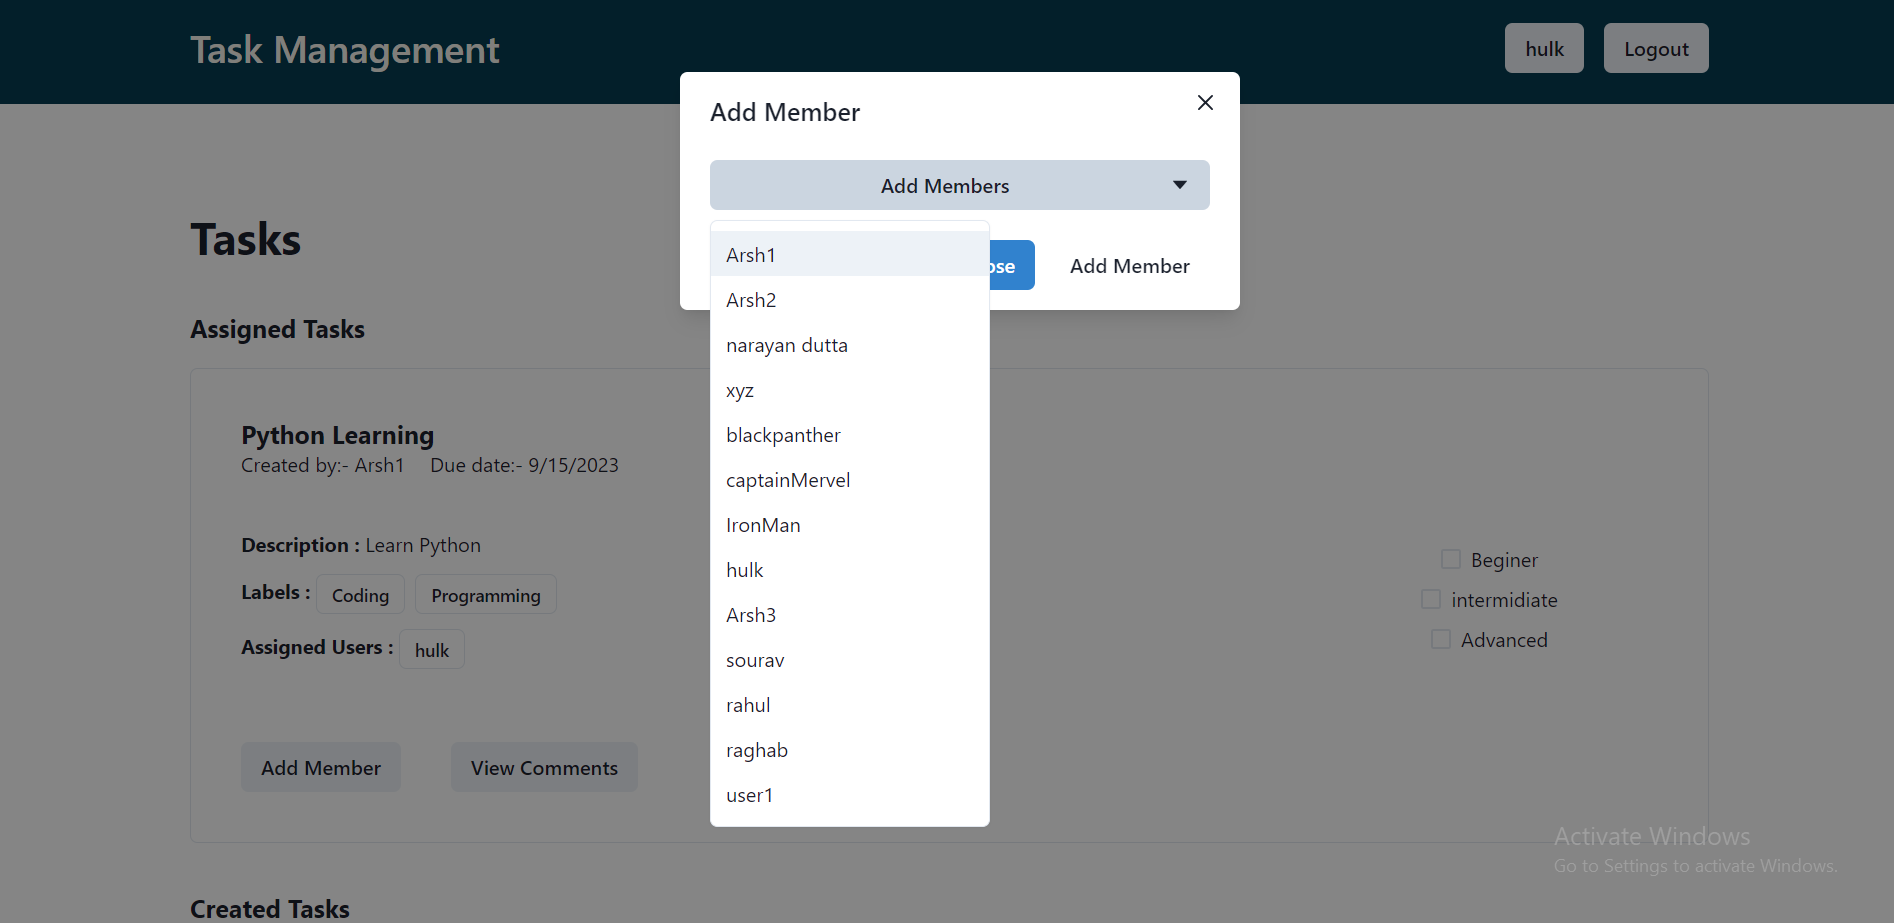
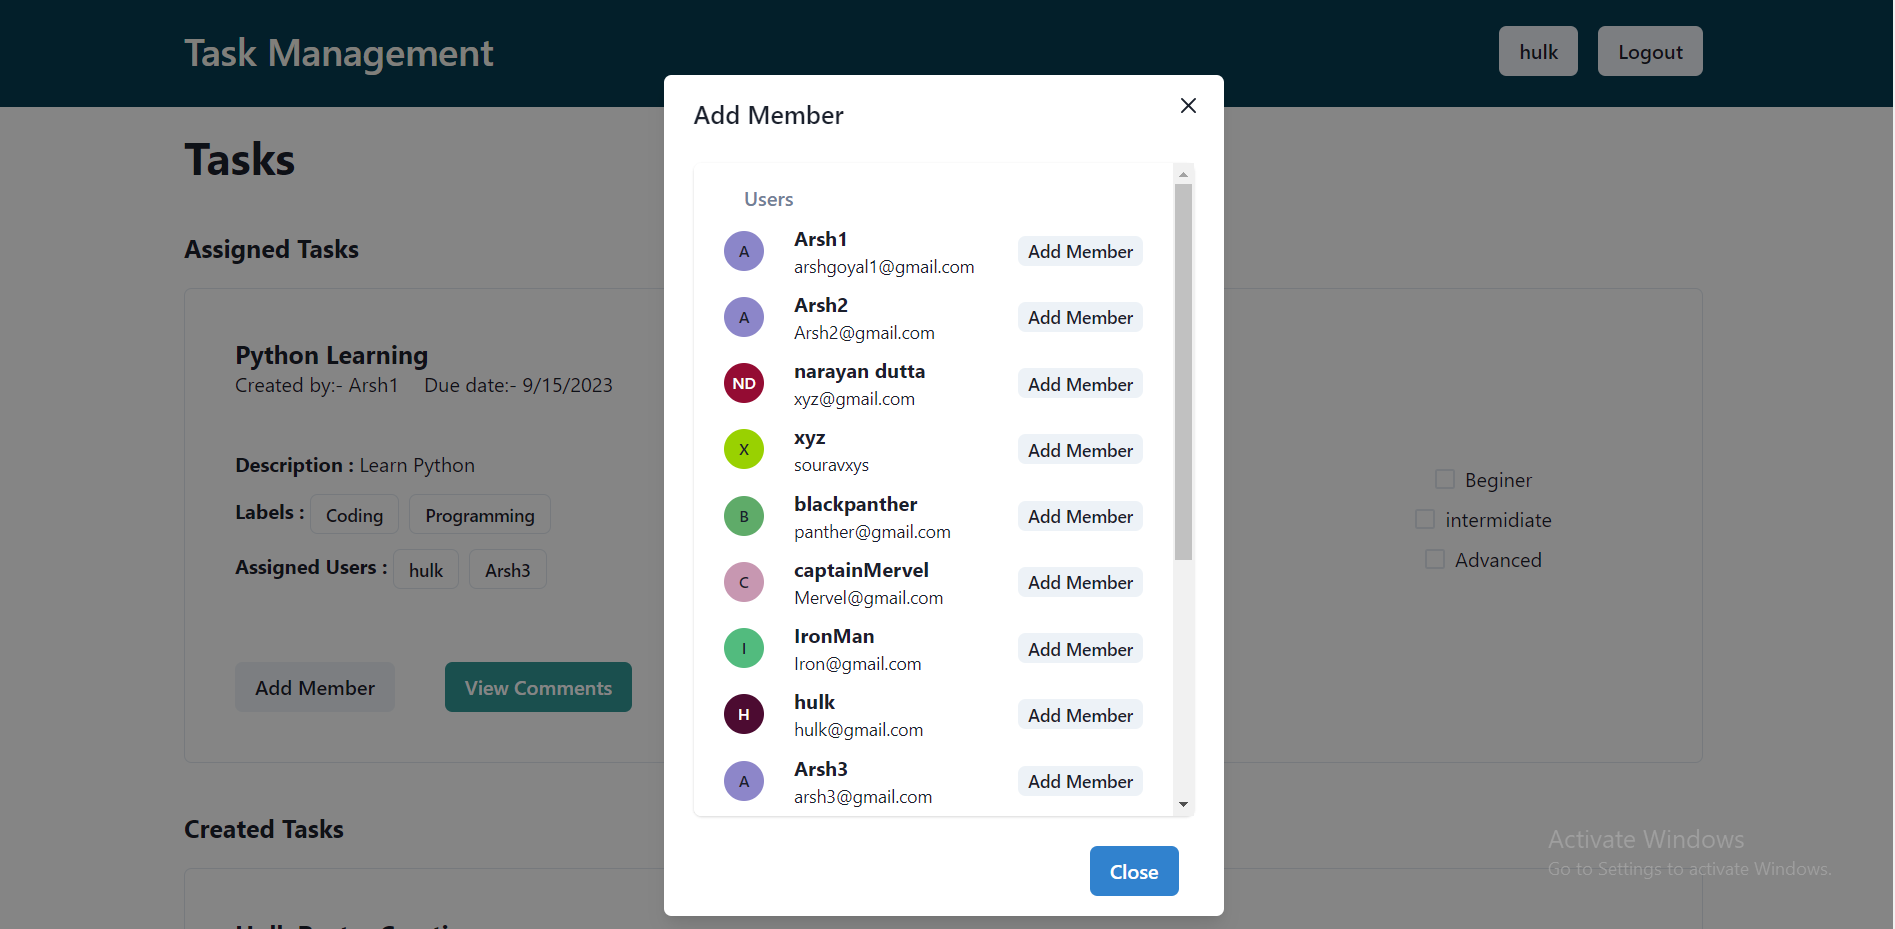
updated

diff --git a/task_fe/src/component/task/AddComment.jsx b/task_fe/src/component/task/AddComment.jsx
@@ -80,8 +80,6 @@ const AddComment = ({ task, setUpdate }) => {
 
   return (
     <>
-      {/* <Button onClick={onOpen}>View Comments</Button> */}
-
       <Button
         ref={btnRef}
         colorScheme="teal"
@@ -151,59 +149,6 @@ const AddComment = ({ task, setUpdate }) => {
           </DrawerFooter>
         </DrawerContent>
       </Drawer>
-
-      {/* <Modal isOpen={isOpen} onClose={onClose}>
-        <ModalOverlay />
-        <ModalContent>
-          <ModalHeader>View Comments</ModalHeader>
-          <ModalCloseButton />
-          <ModalBody>
-            <Stack spacing={5}>
-              <Card>
-                <CardHeader>
-                  <Heading size="md">Comments</Heading>
-                </CardHeader>
-
-                <CardBody>
-                  <Stack divider={<StackDivider />} spacing="4">
-                    {task.comments.map((comment) => {
-                      return (
-                        <Box>
-                          <Heading size="xs" textTransform="uppercase">
-                            {comment.name}
-                          </Heading>
-                          <Text pt="2" fontSize="sm">
-                            {comment.text}
-                          </Text>
-                        </Box>
-                      )
-                    })}
-                    <Box>
-                      <Input
-                        type="text"
-                        value={input}
-                        placeholder="Add your Comments"
-                        onChange={(e) => {
-                          setInput(e.target.value)
-                        }}
-                      />
-                    </Box>
-                  </Stack>
-                </CardBody>
-              </Card>
-            </Stack>
-          </ModalBody>
-
-          <ModalFooter>
-            <Button colorScheme="blue" mr={3} onClick={onClose}>
-              Close
-            </Button>
-            <Button variant="ghost" onClick={addComment}>
-              Add Comment
-            </Button>
-          </ModalFooter>
-        </ModalContent>
-      </Modal> */}
     </>
   )
 }

diff --git a/task_fe/src/component/task/AddMember.jsx b/task_fe/src/component/task/AddMember.jsx
@@ -57,6 +57,7 @@ const AddMember = ({ task, setUpdate }) => {
       )
       .then((res) => {
         setUpdate((prev) => !prev)
+        onClose()
       })
   }
 
@@ -81,7 +82,7 @@ const AddMember = ({ task, setUpdate }) => {
           <ModalCloseButton />
           <ModalBody>
             <Stack>
-              <Card width="100%">
+              <Card width="100%" height={"70vh"} overflowY={"auto"}>
                 <StructuredList pl={6} pr={6}>
                   <StructuredListHeader>Users</StructuredListHeader>
                   {users.map((user) => {
@@ -116,27 +117,6 @@ const AddMember = ({ task, setUpdate }) => {
                   })}
                 </StructuredList>
               </Card>
-
-              {/* <Menu>
-                <MenuButton as={Button} rightIcon={<AiFillCaretDown />}>
-                  Add Members
-                </MenuButton>
-                <MenuList>
-                  {users.map((user) => {
-                    return (
-                      <MenuItem
-                        onClick={(e) => {
-                          addUser(e.target.name, e.target.value)
-                        }}
-                        value={user.name}
-                        name={user._id}
-                      >
-                        {user.name}
-                      </MenuItem>
-                    )
-                  })}
-                </MenuList>
-              </Menu> */}
             </Stack>
           </ModalBody>
 
@@ -144,7 +124,6 @@ const AddMember = ({ task, setUpdate }) => {
             <Button colorScheme="blue" mr={3} onClick={onClose}>
               Close
             </Button>
-            <Button variant="ghost">Add Member</Button>
           </ModalFooter>
         </ModalContent>
       </Modal>

diff --git a/task_fe/src/component/login/SignUpForm.jsx b/task_fe/src/component/login/SignUpForm.jsx
@@ -78,9 +78,6 @@ const SignUpForm = ({ setUserInfo }) => {
         </Text>
         <Stack w={"100%"} spacing={4}>
           <InputGroup>
-            {/* <InputLeftElement>
-              <BsFillPersonFill color="gray.300" />
-            </InputLeftElement> */}
             <Input
               type="text"
               placeholder="Enter your name"
@@ -92,9 +89,6 @@ const SignUpForm = ({ setUserInfo }) => {
           </InputGroup>
 
           <InputGroup>
-            {/* <InputLeftElement>
-              <SiGmail color="gray.300" />
-            </InputLeftElement> */}
             <Input
               type="email"
               placeholder="Enter your Email Address"
@@ -106,9 +100,6 @@ const SignUpForm = ({ setUserInfo }) => {
           </InputGroup>
 
           <InputGroup>
-            {/* <InputLeftElement>
-              <MdPassword color="gray.300" />
-            </InputLeftElement> */}
             <Input
               type="password"
               placeholder="Enter your password"
@@ -121,7 +112,7 @@ const SignUpForm = ({ setUserInfo }) => {
 
           <Box>
             <Button
-              bg={"#1273EB"}
+              bg={"#126bd8"}
               w={"100%"}
               color={"white"}
               onClick={handleRegister}

diff --git a/task_fe/src/component/login/LogInForm.jsx b/task_fe/src/component/login/LogInForm.jsx
@@ -68,9 +68,6 @@ const LogInForm = ({ setUserInfo }) => {
         </Text>
         <Stack w={"100%"} spacing={4}>
           <InputGroup>
-            {/* <InputLeftElement>
-              <SiGmail color="gray.300" />
-            </InputLeftElement> */}
             <Input
               type="email"
               placeholder="Enter your email address"
@@ -82,9 +79,6 @@ const LogInForm = ({ setUserInfo }) => {
           </InputGroup>
 
           <InputGroup>
-            {/* <InputLeftElement>
-              <MdPassword color="gray.300" />
-            </InputLeftElement> */}
             <Input
               type="password"
               placeholder="Enter your password"
@@ -97,7 +91,7 @@ const LogInForm = ({ setUserInfo }) => {
 
           <Box>
             <Button
-              bg={"#1273EB"}
+              bg={"#126bd8"}
               w={"100%"}
               color={"white"}
               onClick={handleLogin}
